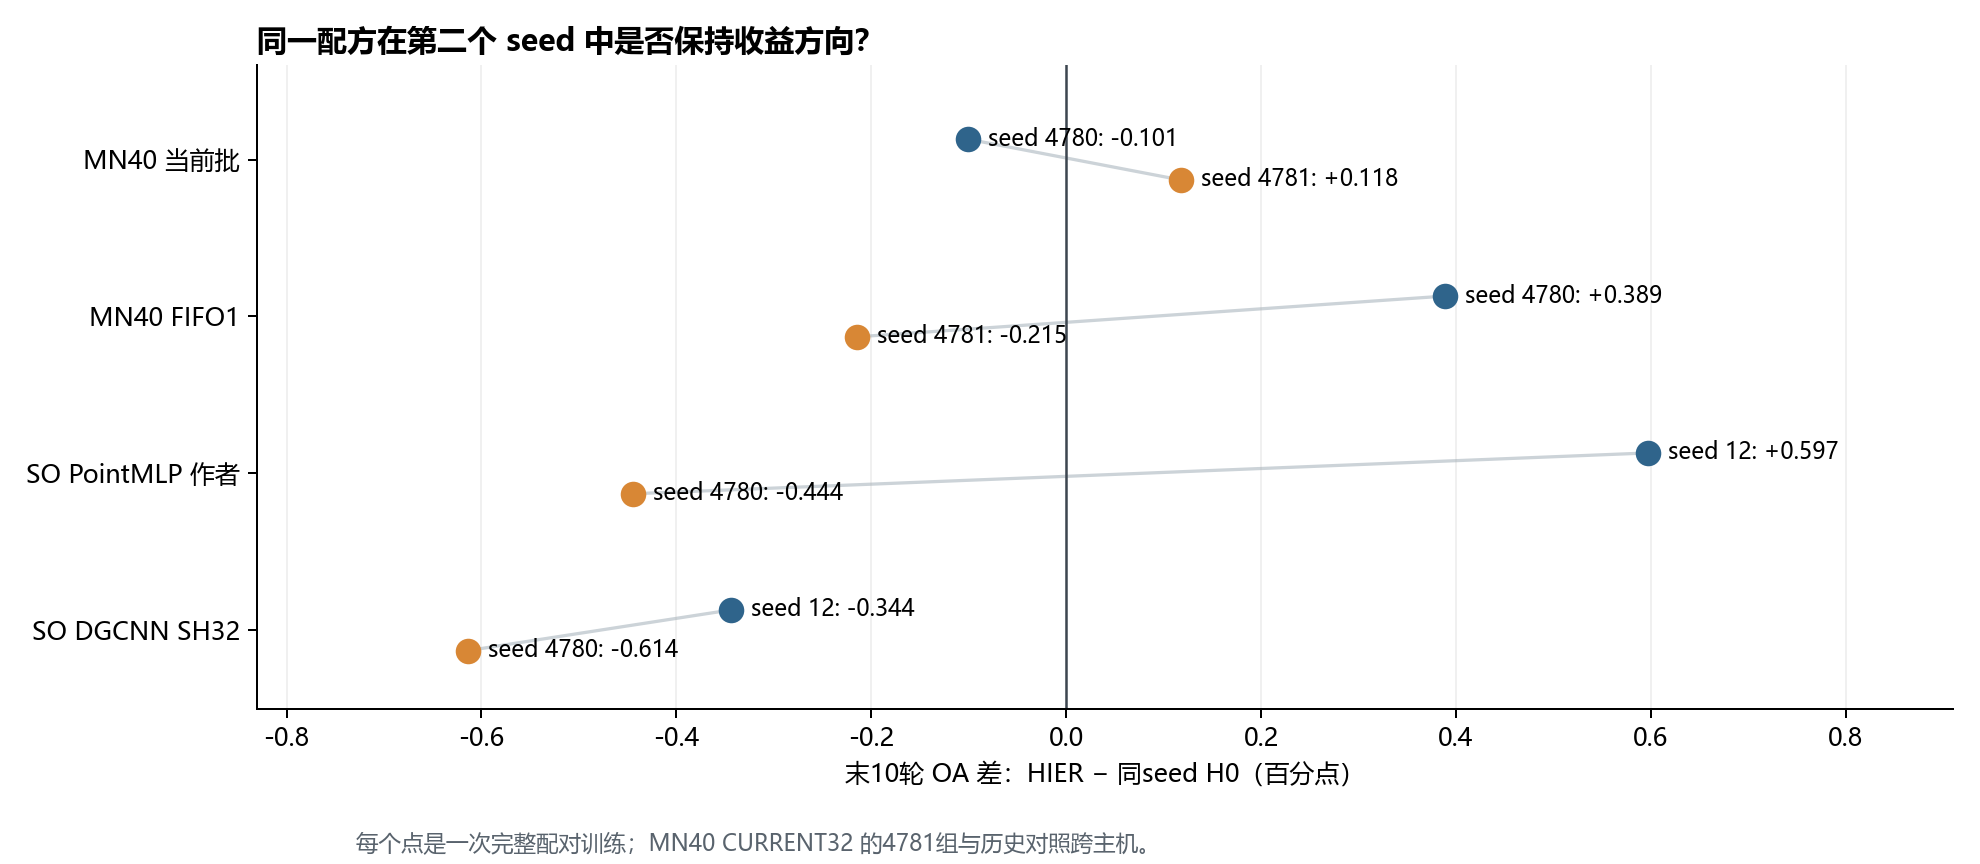
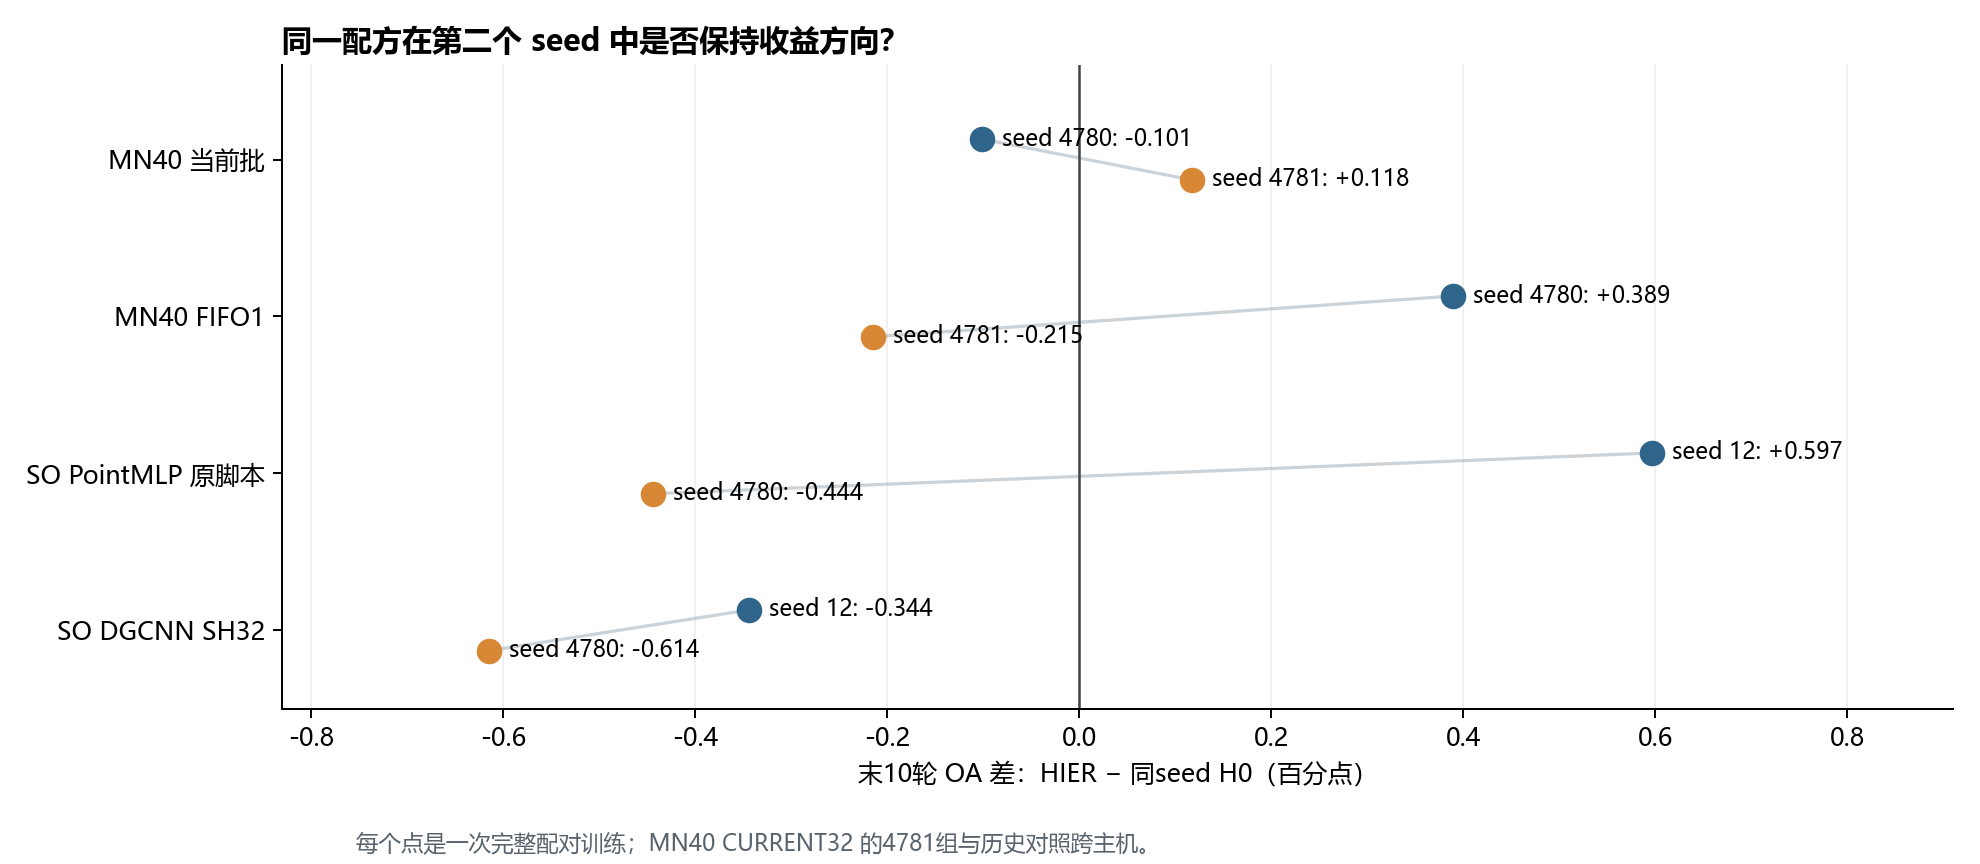
docs: clarify classification entries and data shard order

diff --git a/docs/research/199_TEACHER_CLASSIFICATION_REPORT_2026-11-27/build_report.py b/docs/research/199_TEACHER_CLASSIFICATION_REPORT_2026-11-27/build_report.py
@@ -69,7 +69,7 @@ def table(stage):
             '|---|---|---:|---:|---:|---:|']
     for identity in stage_ids[stage]:
         x=rows[identity];control=controls.get(identity)
-        change=short_change.get(identity,x['change'])
+        change=short_change.get(identity,x['change']).replace('作者入口','原脚本入口')
         delta=fmt(x['tail_oa']-rows[control]['tail_oa'],True) if control else '—'
         result.append(f"| **{identity}**：{change} | {control or '本阶段H0／独立基准'} | {pair(x,'best')} | {pair(x,'last')} | {pair(x,'tail')} | {delta} |")
     return '\n'.join(result)
@@ -106,7 +106,7 @@ assert len(flat)==52 and len(set(flat))==52 and set(flat)==set(x['id'] for x in 
 stage_names={
  'A':'11/12–13凌晨 代理消融、H0和预算', 'B':'11/13晚–15凌晨 SH32、优化器与权重',
  'C':'11/15–16下午 实时池、分项K与缓存', 'D':'11/16晚–18 分项权重与历史候选',
- 'E':'11/19 MN20与双采样', 'F':'11/20–21 SO迁移与作者入口',
+ 'E':'11/19 MN20与双采样', 'F':'11/20–21 SO迁移与原脚本入口',
  'G':'11/23 配对seed复验', 'H':'11/24 发布权重、复现与替代骨干',
  'I':'11/25 DeLA Part–Whole配对', 'J':'11/26 权重与CB32配对'}
 by_id={identity:stage for stage,ids in stage_ids.items() for identity in ids}

diff --git a/docs/research/199_TEACHER_CLASSIFICATION_REPORT_2026-11-27/make_figures.py b/docs/research/199_TEACHER_CLASSIFICATION_REPORT_2026-11-27/make_figures.py
@@ -30,7 +30,7 @@ def fmt(value, signed=False):
 pairs = [
     ('MN40 当前批', [('4780', 'TS06', 'TS35'), ('4781', 'MN40-B05-S4781-H0', 'MN40-B05-S4781-HIER-CURRENT32')]),
     ('MN40 FIFO1', [('4780', 'TS06', 'TS44'), ('4781', 'MN40-B05-S4781-H0', 'MN40-B05-S4781-HIER-FIFO1')]),
-    ('SO PointMLP 作者', [('12', 'SO-S12-H0', 'SO-S12-HIER'), ('4780', 'SO-S4780-H0', 'SO-S4780-HIER')]),
+    ('SO PointMLP 原脚本', [('12', 'SO-S12-H0', 'SO-S12-HIER'), ('4780', 'SO-S4780-H0', 'SO-S4780-HIER')]),
     ('SO DGCNN SH32', [('12', 'DG-S12-H0', 'DG-S12-HIER'), ('4780', 'DG-S4780-H0', 'DG-S4780-HIER')]),
 ]
 fig, ax = plt.subplots(figsize=(11, 4.8))

diff --git a/docs/research/199_TEACHER_CLASSIFICATION_REPORT_2026-11-27/appendix_experiments.md b/docs/research/199_TEACHER_CLASSIFICATION_REPORT_2026-11-27/appendix_experiments.md
@@ -92,23 +92,23 @@
 
 | 编号／原运行名；启动 | 数据／骨干／底座；seed | 分类batch／卡数；HIER候选池 | 步×轮＝总预算 | HIER配方与实际改动 | best轮：OA／同轮AA | 末轮OA／AA | 末10 OA／AA | 对照与评估边界 | 原运行目录／出处 |
 | --- | --- | --- | --- | --- | ---: | ---: | ---: | --- | --- |
-| `SO-H0`；01:20:40 | SO 11416/2882／PointMLP／SO / PMLP原生，本地适配；S4780 | SH32／1卡；池— | 356×300=106,800 | H0；原生Part–Whole | e211：85.357 / 83.903 | e300：83.657 / 82.606 | 83.796 / 82.501 | SO-HIER；同入口配对；逐轮test-best；固定预算；best AA取同轮 | `scanobject_hier_pair_20261120_A/SO-H0/main`；[成绩](../197_CLASSIFICATION_REPORT_DRAFT_2026-11-26/non_ts_log_audit.json)；[配置](../197_CLASSIFICATION_REPORT_DRAFT_2026-11-26/non_ts_experiments.md) |
-| `SO-HIER`；01:20:40 | SO 11416/2882／PointMLP／SO / PMLP原生，本地适配；S4780 | SH32／1卡；池32 | 356×300=106,800 | 实际深度cap分支；A1/K20/.5 | e260：86.051 / 84.691 | e300：84.629 / 83.485 | 84.608 / 83.299 | SO-H0；同入口配对；逐轮test-best；固定预算；best AA取同轮 | `scanobject_hier_pair_20261120_A/SO-HIER/main`；[成绩](../197_CLASSIFICATION_REPORT_DRAFT_2026-11-26/non_ts_log_audit.json)；[配置](../197_CLASSIFICATION_REPORT_DRAFT_2026-11-26/non_ts_experiments.md) |
+| `SO-H0`；01:20:40 | SO 11416/2882／PointMLP／SO / PMLP原生，封装入口；S4780 | SH32／1卡；池— | 356×300=106,800 | H0；原生Part–Whole | e211：85.357 / 83.903 | e300：83.657 / 82.606 | 83.796 / 82.501 | SO-HIER；同入口配对；逐轮test-best；固定预算；best AA取同轮 | `scanobject_hier_pair_20261120_A/SO-H0/main`；[成绩](../197_CLASSIFICATION_REPORT_DRAFT_2026-11-26/non_ts_log_audit.json)；[配置](../197_CLASSIFICATION_REPORT_DRAFT_2026-11-26/non_ts_experiments.md) |
+| `SO-HIER`；01:20:40 | SO 11416/2882／PointMLP／SO / PMLP原生，封装入口；S4780 | SH32／1卡；池32 | 356×300=106,800 | 实际深度cap分支；A1/K20/.5 | e260：86.051 / 84.691 | e300：84.629 / 83.485 | 84.608 / 83.299 | SO-H0；同入口配对；逐轮test-best；固定预算；best AA取同轮 | `scanobject_hier_pair_20261120_A/SO-HIER/main`；[成绩](../197_CLASSIFICATION_REPORT_DRAFT_2026-11-26/non_ts_log_audit.json)；[配置](../197_CLASSIFICATION_REPORT_DRAFT_2026-11-26/non_ts_experiments.md) |
 
 ### 2026-11-21（3组）
 
 | 编号／原运行名；启动 | 数据／骨干／底座；seed | 分类batch／卡数；HIER候选池 | 步×轮＝总预算 | HIER配方与实际改动 | best轮：OA／同轮AA | 末轮OA／AA | 末10 OA／AA | 对照与评估边界 | 原运行目录／出处 |
 | --- | --- | --- | --- | --- | ---: | ---: | ---: | --- | --- |
-| `SO-S12-HIER`；14:11:17 | SO 11416/2882／PointMLP／SO / PMLP原生，作者main；S12 | SH32／1卡；池32 | 356×300=106,800 | 实际深度cap；A1/K20/.5 | e210：86.294 / 84.278 | e300：84.837 / 83.663 | 84.639 / 83.317 | SO-S12-H0；同入口配对；逐轮test-best；固定预算；best AA取同轮 | `scanobject_author_s12_20261121_B/SO-S12-HIER/main/checkpoints/PointNet-toyproof-Offv_pointmlp_hycore`；[成绩](../197_CLASSIFICATION_REPORT_DRAFT_2026-11-26/non_ts_log_audit.json)；[配置](../197_CLASSIFICATION_REPORT_DRAFT_2026-11-26/non_ts_experiments.md) |
-| `SO-S12-H0`；14:11:32 | SO 11416/2882／PointMLP／SO / PMLP原生，作者main；S12 | SH32／1卡；池— | 356×300=106,800 | H0；原生Part–Whole | e209：86.294 / 84.575 | e300：84.074 / 82.271 | 84.042 / 82.515 | SO-S12-HIER；同入口配对；逐轮test-best；固定预算；best AA取同轮 | `scanobject_author_s12_20261121_B/SO-S12-H0/main/checkpoints/PointNet-toyproof-Offv_pointmlp_hycore`；[成绩](../197_CLASSIFICATION_REPORT_DRAFT_2026-11-26/non_ts_log_audit.json)；[配置](../197_CLASSIFICATION_REPORT_DRAFT_2026-11-26/non_ts_experiments.md) |
+| `SO-S12-HIER`；14:11:17 | SO 11416/2882／PointMLP／SO / PMLP原生，原脚本main；S12 | SH32／1卡；池32 | 356×300=106,800 | 实际深度cap；A1/K20/.5 | e210：86.294 / 84.278 | e300：84.837 / 83.663 | 84.639 / 83.317 | SO-S12-H0；同入口配对；逐轮test-best；固定预算；best AA取同轮 | `scanobject_author_s12_20261121_B/SO-S12-HIER/main/checkpoints/PointNet-toyproof-Offv_pointmlp_hycore`；[成绩](../197_CLASSIFICATION_REPORT_DRAFT_2026-11-26/non_ts_log_audit.json)；[配置](../197_CLASSIFICATION_REPORT_DRAFT_2026-11-26/non_ts_experiments.md) |
+| `SO-S12-H0`；14:11:32 | SO 11416/2882／PointMLP／SO / PMLP原生，原脚本main；S12 | SH32／1卡；池— | 356×300=106,800 | H0；原生Part–Whole | e209：86.294 / 84.575 | e300：84.074 / 82.271 | 84.042 / 82.515 | SO-S12-HIER；同入口配对；逐轮test-best；固定预算；best AA取同轮 | `scanobject_author_s12_20261121_B/SO-S12-H0/main/checkpoints/PointNet-toyproof-Offv_pointmlp_hycore`；[成绩](../197_CLASSIFICATION_REPORT_DRAFT_2026-11-26/non_ts_log_audit.json)；[配置](../197_CLASSIFICATION_REPORT_DRAFT_2026-11-26/non_ts_experiments.md) |
 | `MN40-AUTHOR-H0-S4780（MN40作者H0-S4780）`；19:31:41 | MN40 9840/2468／PointMLP／MN40 / PMLP原生，作者launcher；S4780 | SH32／1卡；池— | 307×300=92,100 | H0；训练分片3/0/2/4/1 | e200：93.598 / 90.411 | e300：93.395 / 90.770 | 93.002 / 90.574 | 作者分片组；TS02还混入口；逐轮test-best；固定预算；best AA取同轮 | `mn40_author_s4780_20261121_a/source/classification_ModelNet40/checkpoints/Hype_PointNet-Offv_pointmlp_hycore_var-4780`；[成绩](../197_CLASSIFICATION_REPORT_DRAFT_2026-11-26/non_ts_log_audit.json)；[配置](../197_CLASSIFICATION_REPORT_DRAFT_2026-11-26/non_ts_experiments.md) |
 
 ### 2026-11-23（4组）
 
 | 编号／原运行名；启动 | 数据／骨干／底座；seed | 分类batch／卡数；HIER候选池 | 步×轮＝总预算 | HIER配方与实际改动 | best轮：OA／同轮AA | 末轮OA／AA | 末10 OA／AA | 对照与评估边界 | 原运行目录／出处 |
 | --- | --- | --- | --- | --- | ---: | ---: | ---: | --- | --- |
-| `SO-S4780-HIER`；14:49:58 | SO 11416/2882／PointMLP／SO / PMLP原生，作者main；S4780 | SH32／1卡；池32 | 356×300=106,800 | 实际深度cap；A1/K20/.5 | e208：85.600 / 83.875 | e300：84.074 / 83.109 | 84.289 / 83.159 | SO-S4780-H0；同入口配对；逐轮test-best；固定预算；best AA取同轮 | `scanobject_author_s4780_20261123/SO-S4780-HIER/main/checkpoints/PointNet-toyproof-Offv_pointmlp_hycore`；[成绩](../197_CLASSIFICATION_REPORT_DRAFT_2026-11-26/non_ts_log_audit.json)；[配置](../197_CLASSIFICATION_REPORT_DRAFT_2026-11-26/non_ts_experiments.md) |
-| `SO-S4780-H0`；14:49:59 | SO 11416/2882／PointMLP／SO / PMLP原生，作者main；S4780 | SH32／1卡；池— | 356×300=106,800 | H0；原生Part–Whole | e253：85.600 / 84.575 | e300：84.629 / 83.411 | 84.733 / 83.476 | SO-S4780-HIER；同入口配对；逐轮test-best；固定预算；best AA取同轮 | `scanobject_author_s4780_20261123/SO-S4780-H0/main/checkpoints/PointNet-toyproof-Offv_pointmlp_hycore`；[成绩](../197_CLASSIFICATION_REPORT_DRAFT_2026-11-26/non_ts_log_audit.json)；[配置](../197_CLASSIFICATION_REPORT_DRAFT_2026-11-26/non_ts_experiments.md) |
+| `SO-S4780-HIER`；14:49:58 | SO 11416/2882／PointMLP／SO / PMLP原生，原脚本main；S4780 | SH32／1卡；池32 | 356×300=106,800 | 实际深度cap；A1/K20/.5 | e208：85.600 / 83.875 | e300：84.074 / 83.109 | 84.289 / 83.159 | SO-S4780-H0；同入口配对；逐轮test-best；固定预算；best AA取同轮 | `scanobject_author_s4780_20261123/SO-S4780-HIER/main/checkpoints/PointNet-toyproof-Offv_pointmlp_hycore`；[成绩](../197_CLASSIFICATION_REPORT_DRAFT_2026-11-26/non_ts_log_audit.json)；[配置](../197_CLASSIFICATION_REPORT_DRAFT_2026-11-26/non_ts_experiments.md) |
+| `SO-S4780-H0`；14:49:59 | SO 11416/2882／PointMLP／SO / PMLP原生，原脚本main；S4780 | SH32／1卡；池— | 356×300=106,800 | H0；原生Part–Whole | e253：85.600 / 84.575 | e300：84.629 / 83.411 | 84.733 / 83.476 | SO-S4780-HIER；同入口配对；逐轮test-best；固定预算；best AA取同轮 | `scanobject_author_s4780_20261123/SO-S4780-H0/main/checkpoints/PointNet-toyproof-Offv_pointmlp_hycore`；[成绩](../197_CLASSIFICATION_REPORT_DRAFT_2026-11-26/non_ts_log_audit.json)；[配置](../197_CLASSIFICATION_REPORT_DRAFT_2026-11-26/non_ts_experiments.md) |
 | `MN40-B05-S4781-HIER-FIFO1`；14:51:47 | MN40 9840/2468／PointMLP／MN40 / PMLP B05；S4781 | SH32／1卡；池32→64 | 307×300=92,100 | 固定壳；前一步detach，轮首清空；A1/K20/.5 | e243：93.801 / 90.783 | e300：93.355 / 90.545 | 93.039 / 90.561 | 同seed H0；复验TS44整套方案；逐轮test-best；固定预算；best AA取同轮 | `mn40_b05_fifo64_s4781_20261123/hier/main`；[成绩](../197_CLASSIFICATION_REPORT_DRAFT_2026-11-26/non_ts_log_audit.json)；[配置](../197_CLASSIFICATION_REPORT_DRAFT_2026-11-26/non_ts_experiments.md) |
 | `MN40-B05-S4781-H0`；14:51:48 | MN40 9840/2468／PointMLP／MN40 / PMLP B05；S4781 | SH32／1卡；池— | 307×300=92,100 | H0；沿TS06数据顺序 | e282：93.882 / 90.853 | e300：93.801 / 90.816 | 93.254 / 90.507 | FIFO1/CURRENT32；后者跨主机；逐轮test-best；固定预算；best AA取同轮 | `mn40_b05_fifo64_s4781_20261123/h0/main`；[成绩](../197_CLASSIFICATION_REPORT_DRAFT_2026-11-26/non_ts_log_audit.json)；[配置](../197_CLASSIFICATION_REPORT_DRAFT_2026-11-26/non_ts_experiments.md) |
 
@@ -122,7 +122,7 @@
 | `DG-S4780-H0`；14:14:24 | SO 11416/2882／DGCNN／SO / DGCNN原生；S4780 | SH32／1卡；池— | 356×250=89,000 | H0；原生Part–Whole | e223：82.616 / 79.749 | e250：81.263 / 78.602 | 80.940 / 78.131 | DG-S4780-HIER；同seed配对；逐轮test-best；固定预算；best AA取同轮 | `scanobject_dgcnn_hier_20261124_1415/DG-S4780-H0/main/checkpoints/PointNet-toyproof-Offv_dgcnn_hycore`；[成绩](../197_CLASSIFICATION_REPORT_DRAFT_2026-11-26/non_ts_log_audit.json)；[配置](../197_CLASSIFICATION_REPORT_DRAFT_2026-11-26/non_ts_experiments.md) |
 | `DG-S4780-HIER`；14:19:51 | SO 11416/2882／DGCNN／SO / DGCNN原生；S4780 | SH32／1卡；池32 | 356×250=89,000 | 实际深度cap；A1/K20/.5 | e219：81.298 / 78.997 | e250：80.222 / 77.598 | 80.326 / 77.458 | DG-S4780-H0；同seed配对；逐轮test-best；固定预算；best AA取同轮 | `scanobject_dgcnn_hier_20261124_1415/DG-S4780-HIER/main/checkpoints/PointNet-toyproof-Offv_dgcnn_hycore`；[成绩](../197_CLASSIFICATION_REPORT_DRAFT_2026-11-26/non_ts_log_audit.json)；[配置](../197_CLASSIFICATION_REPORT_DRAFT_2026-11-26/non_ts_experiments.md) |
 | `MN40-B05-S4781-HIER-CURRENT32`；21:38:30 | MN40 9840/2468／PointMLP／MN40 / PMLP B05；S4781 | SH32／1卡；池32 | 307×300=92,100 | 固定壳；关FIFO；A1/K20/.5 | e282：94.084 / 91.070 | e300：93.841 / 90.565 | 93.371 / 90.569 | 同seed H0/FIFO1；主机不同；逐轮test-best；固定预算；best AA取同轮 | `mn40_b05_s4781_current32_20261124/hier-current/main`；[成绩](../197_CLASSIFICATION_REPORT_DRAFT_2026-11-26/non_ts_log_audit.json)；[配置](../197_CLASSIFICATION_REPORT_DRAFT_2026-11-26/non_ts_experiments.md) |
-| `SO-S12-H0-PAPER-INTRA`；21:50:08 | SO 11416/2882／PointMLP／SO / PMLP作者main；S12 | SH32／1卡；池— | 356×300=106,800 | H0；原生层次权重.001→.01和margin500/N→1000/N一起改 | e243：85.010 / 83.664 | e300：83.727 / 82.843 | 83.664 / 82.761 | SO-S12-H0；跨主机；只回答两项合改；逐轮test-best；固定预算；best AA取同轮 | `scanobject_author_paper_intra_s12_20261124/main/checkpoints/PointNet-toyproof-Offv_pointmlp_hycore`；[成绩](../197_CLASSIFICATION_REPORT_DRAFT_2026-11-26/non_ts_log_audit.json)；[配置](../197_CLASSIFICATION_REPORT_DRAFT_2026-11-26/non_ts_experiments.md) |
+| `SO-S12-H0-PAPER-INTRA`；21:50:08 | SO 11416/2882／PointMLP／SO / PMLP原脚本main；S12 | SH32／1卡；池— | 356×300=106,800 | H0；原生层次权重.001→.01和margin500/N→1000/N一起改 | e243：85.010 / 83.664 | e300：83.727 / 82.843 | 83.664 / 82.761 | SO-S12-H0；跨主机；只回答两项合改；逐轮test-best；固定预算；best AA取同轮 | `scanobject_author_paper_intra_s12_20261124/main/checkpoints/PointNet-toyproof-Offv_pointmlp_hycore`；[成绩](../197_CLASSIFICATION_REPORT_DRAFT_2026-11-26/non_ts_log_audit.json)；[配置](../197_CLASSIFICATION_REPORT_DRAFT_2026-11-26/non_ts_experiments.md) |
 | `MN40-AUTHOR-TRAIN-ORDER-S4780（MN40作者H0训练分片顺序组）`；21:50:10 | MN40 9840/2468／PointMLP／MN40 / PMLP原生，作者launcher；S4780 | SH32／1卡；池— | 307×300=92,100 | H0；训练分片改1/4/3/2/0，测试仍0/1 | e182：93.679 / 89.369 | e300：93.112 / 90.553 | 92.970 / 90.836 | 原作者H0；另有主机/Python补丁差异；逐轮test-best；固定预算；best AA取同轮 | `mn40_author_train_order_s4780_20261124/source/classification_ModelNet40/checkpoints/Hype_PointNet-Offv_pointmlp_hycore_var-4780`；[成绩](../197_CLASSIFICATION_REPORT_DRAFT_2026-11-26/non_ts_log_audit.json)；[配置](../197_CLASSIFICATION_REPORT_DRAFT_2026-11-26/non_ts_experiments.md) |
 
 ### 2026-11-25（2组）
